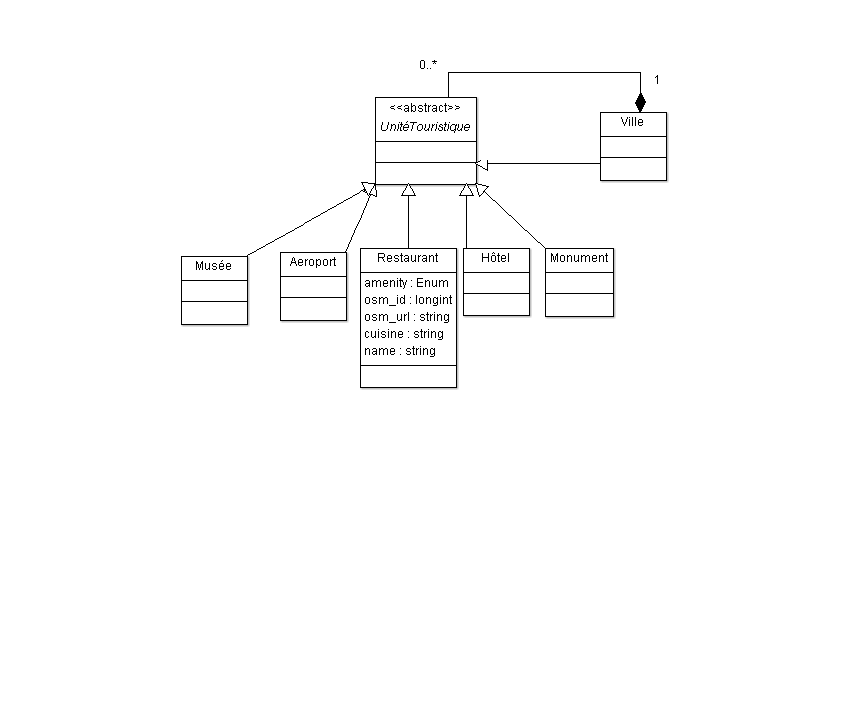
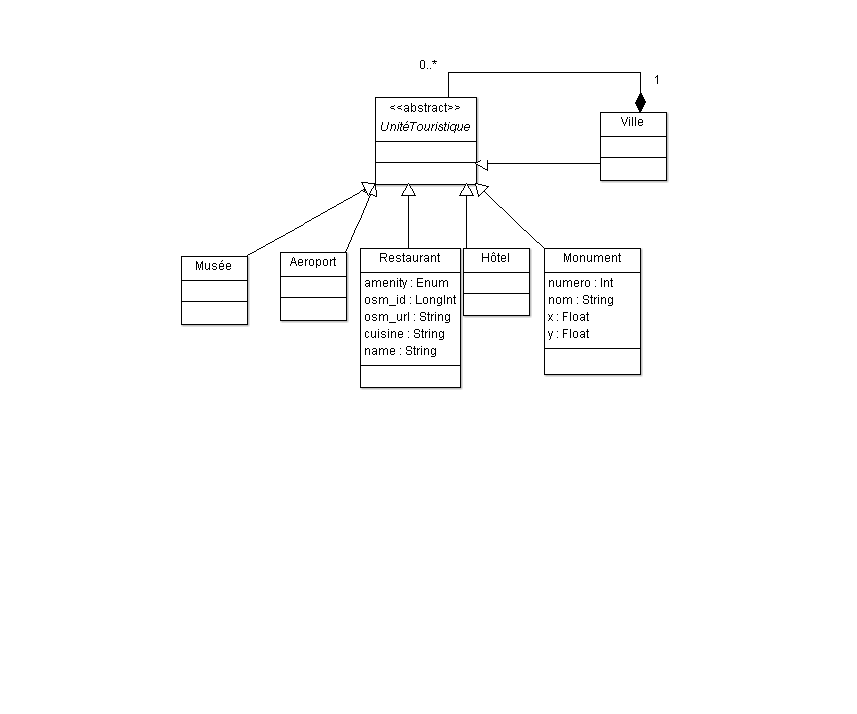
ajoute de ressources pour Monument

Changed region(s): [[0.6371, 0.3389, 0.7585, 0.5238], [0.4551, 0.3389, 0.5461, 0.5546], [0.6371, 0.5238, 0.7281, 0.5546]]

diff --git a/Diagramme de classes/classesExtraites.tex b/Diagramme de classes/classesExtraites.tex
@@ -55,7 +55,7 @@
 \bigskip
 \section{ Restaurant}
 \textbf{ amenity:} restaurant, cafe, fast-food, bar\\
-\textbf{osm\_id:} longInt \\
+\textbf{osm\_id:} LongInt \\
 \textbf{osmu\_rl:} String \\
 \textbf{cuisine:} String \\
 \textbf{name:} String
@@ -65,6 +65,10 @@
 
 \bigskip
 \section{ Monument}
+\textbf{ numéro:} Int\\
+\textbf{nom:} String \\
+\textbf{x :} Float \\
+\textbf{y:} Float
 
 \bigskip
 \section{ Aéroport}
